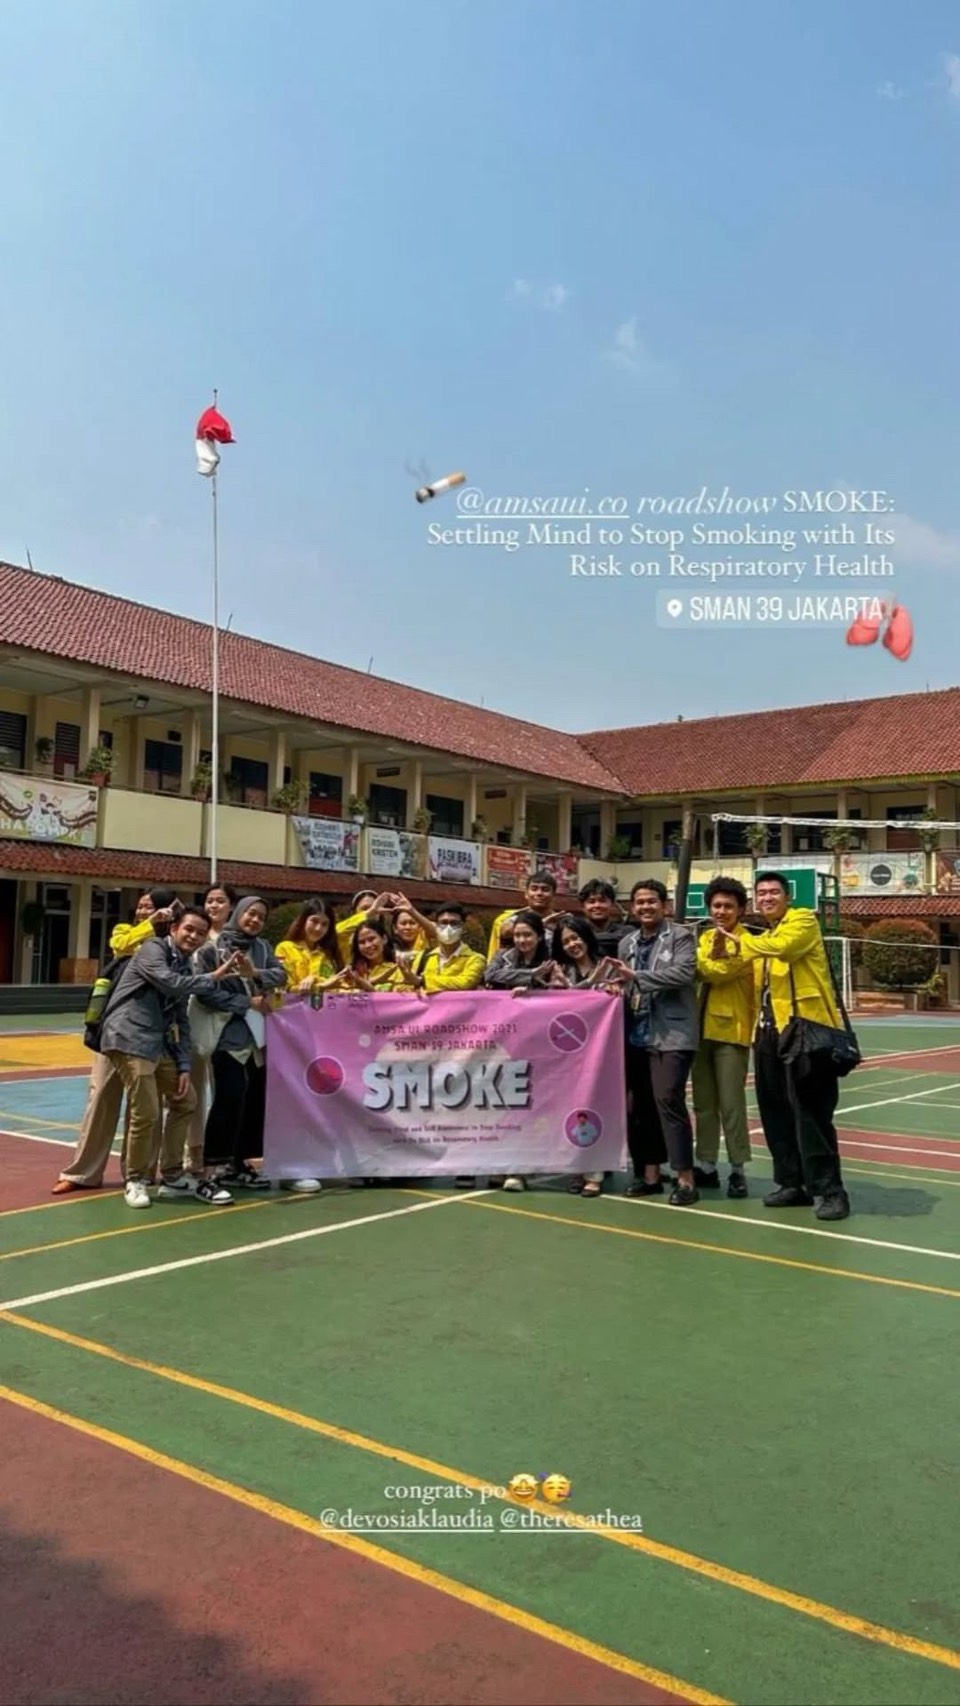
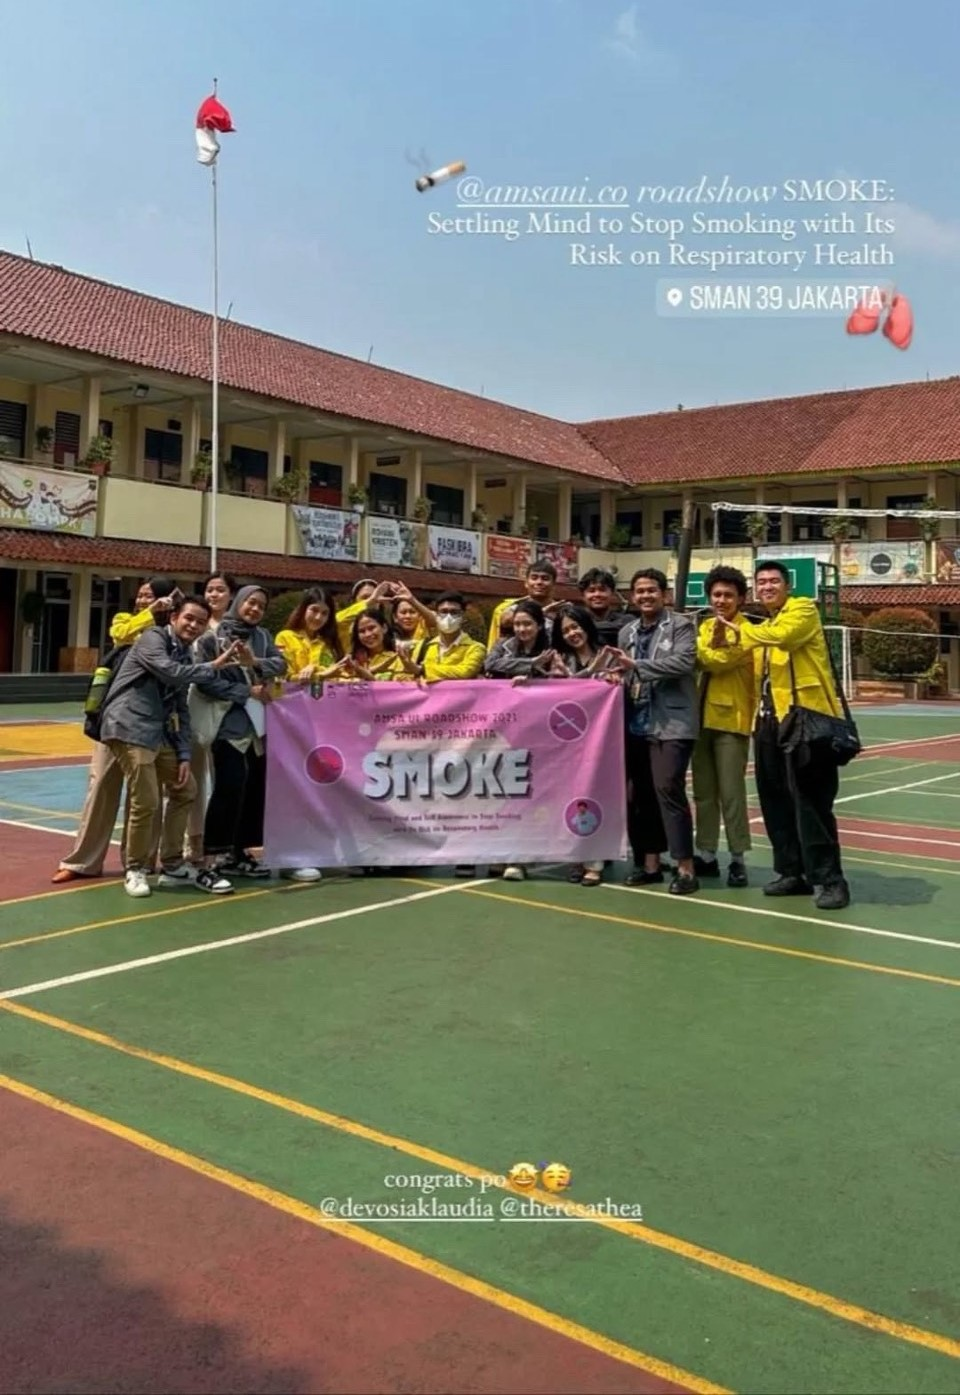
added & cropped photos in divisions

diff --git a/src/components/data/divisionDetailsData.js b/src/components/data/divisionDetailsData.js
@@ -202,13 +202,6 @@ export const divisionsData = {
       description: 'A program attended by representatives from several AMSA universities in District 2 to share stories and experiences from their respective universities.'
     },
     {
-      id: 'collaborative-projects',
-      title: 'AMSA International Day',
-      image: '',
-      link: '',
-      description: 'A program inviting AMSA International to provide an overview of AMSA International to AMSA-UI members. This program is a collaboration between AMSA International Talkshow and E-Club x ALSA-UI.'
-    },
-    {
       id: 'government-liaison',
       title: 'E-Club x ALSA-UI',
       image: '/src/assets/images/divisions/prnd/eclub.JPG',
@@ -234,52 +227,60 @@ export const divisionsData = {
     bg: '#08315E',
     activities: [
       {
-        id: 'amsa-journal',
-        title: 'AMSA Medical Journal',
-        image: '/src/assets/images/publication-journal.jpg',
+        id: 'pnp-101-sharing-session',
+        title: 'PNP 101',
+        image: '/src/assets/images/divisions/pnp/101.JPG',
         link: '',
-        description: 'A peer-reviewed publication featuring research articles, case studies, and reviews written by medical students, promoting scholarly writing and scientific inquiry.'
-
+        description: 'A sharing session about the skills and knowledge needed to carry out the work programs of the PnP division during this tenure.'
       },
       {
-        id: 'newsletter',
-        title: 'Monthly Newsletter',
-        image: '/src/assets/images/publication-newsletter.jpg',
+        id: 'amsa-ui-social-media-publications',
+        title: 'AMSA-UI Social Media Publications',
+        image: '/src/assets/images/divisions/pnp/spsmed.JPG',
         link: '',
-        description: 'Regular digital publication highlighting recent AMSA-UI activities, upcoming events, member achievements, and relevant medical news for the AMSA community.'
-
+        description: 'Publications on AMSA-UI social media, such as Birthday Cards and Greeting Cards.'
       },
       {
-        id: 'social-media',
-        title: 'Social Media Campaign Management',
-        image: '/src/assets/images/publication-social.jpg',
+        id: 'addt-school-of-design',
+        title: 'ADDT & School of Design',
+        image: '/src/assets/images/divisions/pnp/sod.JPG',
         link: '',
-        description: 'Strategic planning and execution of engaging content across social media platforms to raise awareness about AMSA initiatives and health education topics.'
-
+        description: 'Training to deepen skills in design and documentation, in collaboration with the Media Communication division of BEM IKM FKUI.'
       },
       {
-        id: 'website-development',
-        title: 'Website Content Development',
-        image: '/src/assets/images/publication-website.jpg',
+        id: 'pnp-x-liaison-officer',
+        title: 'PnP X Liaison Officer',
+        image: '/src/assets/images/divisions/pnp/lo.png',
         link: '',
-        description: 'Creation and maintenance of informative, up-to-date content for the AMSA-UI website, ensuring it serves as an effective resource for members and visitors.'
-
+        description: 'A liaison for the divisions within AMSA-UI to coordinate with the PnP division.'
       },
       {
-        id: 'health-materials',
-        title: 'Health Education Materials',
-        image: '/src/assets/images/publication-education.jpg',
+        id: 'report-of-events',
+        title: 'Report of Events',
+        image: '/src/assets/images/divisions/pnp/roe.PNG',
         link: '',
-        description: 'Development of accessible, evidence-based health information materials for distribution during community outreach programs and health awareness campaigns.'
-
+        description: 'Sharing positive experiences from AMSA-UI events, updated monthly. The LO has been doing this well.'
       },
       {
-        id: 'multimedia',
-        title: 'Multimedia Production',
-        image: '/src/assets/images/publication-multimedia.jpg',
+        id: 'people-of-amsa-ui',
+        title: 'People of AMSA-UI',
+        image: '/src/assets/images/divisions/pnp/poa.JPG',
         link: '',
-        description: 'Creation of videos, podcasts, and interactive content that showcases AMSA activities and provides engaging health education in innovative formats.'
-
+        description: 'Appreciating AMSA-UI members for their achievements, along with sharing stories and struggles throughout their journey.'
+      },
+      {
+        id: 'life-beyond-amsa-ui',
+        title: 'Life Beyond AMSA-U',
+        image: '/src/assets/images/divisions/pnp/life_beyond.JPG',
+        link: '',
+        description: 'Sharing experiences from participating in activities outside AMSA-UI.'
+      },
+      {
+        id: 'amsa-ui-video-log',
+        title: 'AMSA-UI Video Log',
+        image: '/src/assets/images/divisions/pnp/vid_log.JPG',
+        link: '',
+        description: 'Videos containing documentation and information about National Events attended by AMSA-UI delegates, including testimonials.'
       }
     ]
   },
@@ -292,53 +293,28 @@ export const divisionsData = {
     bg: '#790000',
     activities: [
       {
-        id: 'campus-drives',
-        title: 'Campus Recruitment Drives',
-        image: '/src/assets/images/recruitment-campus.jpg',
+        id: 'branding',
+        title: 'Branding',
+        image: '/src/assets/images/divisions/recruit/branding.png',
         link: '',
-        description: 'Strategic in-person recruitment events at medical schools, featuring interactive information booths, alumni testimonials, and on-the-spot registration opportunities.'
+        description: "Branding is the Recruitment Division's first program aimed at introducing AMSA-UI to new FKUI students to attract their interest in joining AMSA-UI. Example: Posting impressions and experiences from former and current representatives during their time in AMSA."
+      },
+      {
+        id: 'magang-national',
+        title: 'Magang Umum AMSA Indonesia and National team',
+        image: '/src/assets/images/divisions/recruit/magang_ina.png',
+        link: '',
+        description: 'An internship event inviting the AMSA-INA Executive Board and several National Team members to present AMSA-INA to Youth 2025.'
 
       },
       {
-        id: 'orientation',
-        title: 'New Member Orientation Program',
-        image: '/src/assets/images/recruitment-orientation.jpg',
+        id: 'magang-international',
+        title: 'Magang Umum AMSA International',
+        image: '/src/assets/images/divisions/recruit/magang_inter.png',
         link: '',
-        description: 'Comprehensive introduction sessions for newly joined members, covering AMSA`s mission, structure, opportunities, and ways to get involved in various activities.'
+        description: 'An internship event inviting AMSA International to present various aspects of AMSA International to Youth 2025.'
 
       },
-      {
-        id: 'info-sessions',
-        title: 'AMSA Opportunities Information Sessions',
-        image: '/src/assets/images/recruitment-info.jpg',
-        link: '',
-        description: 'Presentations highlighting the benefits of AMSA membership, including exchange programs, leadership development, and academic and professional growth opportunities.'
-
-      },
-      {
-        id: 'virtual-recruitment',
-        title: 'Virtual Recruitment Campaigns',
-        image: '/src/assets/images/recruitment-virtual.jpg',
-        link: '',
-        description: 'Online strategies including webinars, social media campaigns, and digital open houses to reach potential members across different locations.'
-
-      },
-      {
-        id: 'ambassador',
-        title: 'AMSA Ambassador Program',
-        image: '/src/assets/images/recruitment-ambassador.jpg',
-        link: '',
-        description: 'Initiative that trains current members to serve as AMSA representatives at their medical schools, promoting membership and serving as the first point of contact for interested students.'
-
-      },
-      {
-        id: 'retention',
-        title: 'Member Retention Initiatives',
-        image: '/src/assets/images/recruitment-retention.jpg',
-        link: '',
-        description: 'Programs designed to maintain member engagement throughout their medical education, including recognition systems, feedback mechanisms, and personalized outreach.'
-
-      }
     ]
   }
 };
